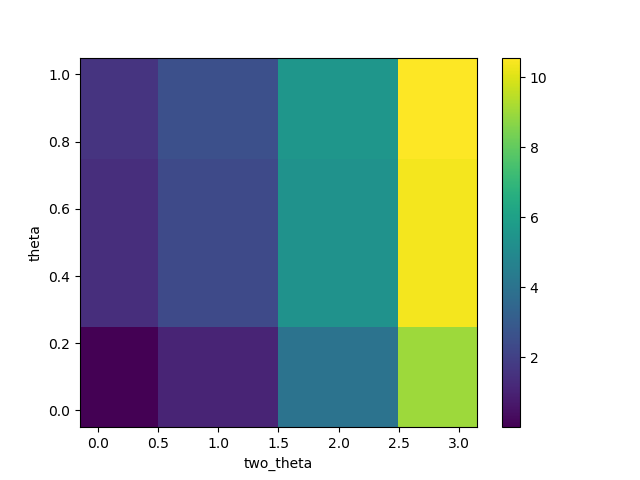
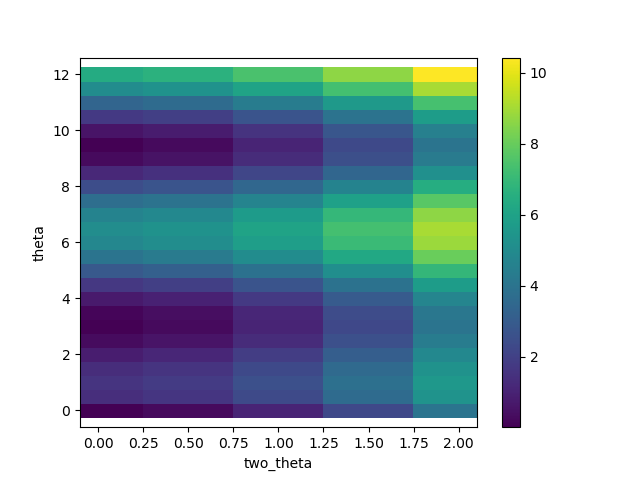
Remove sleep in test
Also add greater resolution to 2D scan

diff --git a/Scans/Instrument.py b/Scans/Instrument.py
@@ -12,7 +12,6 @@ import numpy as np
 from .Util import make_scan
 from .Defaults import Defaults
 from .Monoid import Polarisation, MonoidList
-from .Scans import estimate
 from .Motion import populate
 from .Mocks import g
 
@@ -27,8 +26,6 @@ class MockInstrument(Defaults):
 
     @staticmethod
     def detector(**kwargs):
-        from time import sleep
-        sleep(estimate(**kwargs))
         print("Taking a count at theta=%0.2f and two theta=%0.2f" %
               (g.cget("theta")["value"], g.cget("two_theta")["value"]))
         return (1+np.cos(g.cget("theta")["value"])) * \
@@ -48,11 +45,10 @@ populate()
 scan = make_scan(MockInstrument())
 
 
-def pol_measure(**kwargs):
+def pol_measure(**_):
     """
     Get a single polarisation measurement
     """
-    from time import sleep
 
     results = []
     for freq, width in zip([4, 6, 8, 4], [9, 9, 9, 3]):
@@ -64,6 +60,5 @@ def pol_measure(**kwargs):
         ups += np.sqrt(ups)*(2*np.random.rand()-1)
         down += np.sqrt(down)*(2*np.random.rand()-1)
         results.append(Polarisation(ups, down))
-    sleep(0.01*kwargs["frames"])
 
     return MonoidList(results)

diff --git a/Scans/Mocks.py b/Scans/Mocks.py
@@ -4,7 +4,6 @@ This module creates mocks to handle classes that may not be available
 on development or testing machines.
 """
 
-from time import sleep
 from mock import Mock
 import numpy as np
 
@@ -55,7 +54,6 @@ def fake_spectrum(channel, period):
     base *= 100000
     base += np.sqrt(base) * (2 * np.random.rand(1000) - 1)
     base /= x
-    sleep(0.1)
     return {"signal": base}
 
 

diff --git a/doc/source/tutorial.rst b/doc/source/tutorial.rst
@@ -286,21 +286,30 @@ Perform complex scans
   On the other hand, if the user is unsure about the proper sample
   alignment, they may want to investigate theta and two-theta separately
 
-  >>> th = scan(THETA, start=0, stop=1, stride=0.5)
-  >>> two_th = scan(TWO_THETA, start=0, stop=3, stride=1.0)
-  >>> (th * two_th).plot(frames=5, save="2d.png")
+  >>> th = scan(THETA, start=0, stop=12, stride=0.5)
+  >>> two_th = scan(TWO_THETA, start=0, stop=2, stride=0.5)
+  >>> (th * two_th).plot(frames=5, save="2d.png") # doctest: +ELLIPSIS
   Taking a count at theta=0.00 and two theta=0.00
+  Taking a count at theta=0.00 and two theta=0.50
   Taking a count at theta=0.00 and two theta=1.00
+  Taking a count at theta=0.00 and two theta=1.50
   Taking a count at theta=0.00 and two theta=2.00
-  Taking a count at theta=0.00 and two theta=3.00
   Taking a count at theta=0.50 and two theta=0.00
+  Taking a count at theta=0.50 and two theta=0.50
   Taking a count at theta=0.50 and two theta=1.00
+  Taking a count at theta=0.50 and two theta=1.50
   Taking a count at theta=0.50 and two theta=2.00
-  Taking a count at theta=0.50 and two theta=3.00
-  Taking a count at theta=1.00 and two theta=0.00
-  Taking a count at theta=1.00 and two theta=1.00
-  Taking a count at theta=1.00 and two theta=2.00
-  Taking a count at theta=1.00 and two theta=3.00
+  ...
+  Taking a count at theta=11.50 and two theta=0.00
+  Taking a count at theta=11.50 and two theta=0.50
+  Taking a count at theta=11.50 and two theta=1.00
+  Taking a count at theta=11.50 and two theta=1.50
+  Taking a count at theta=11.50 and two theta=2.00
+  Taking a count at theta=12.00 and two theta=0.00
+  Taking a count at theta=12.00 and two theta=0.50
+  Taking a count at theta=12.00 and two theta=1.00
+  Taking a count at theta=12.00 and two theta=1.50
+  Taking a count at theta=12.00 and two theta=2.00
 
   .. figure:: ../../2d.png
      :alt: 2D scan image
@@ -310,6 +319,7 @@ Perform complex scans
   performed twice and the results combined.  This can allow for
   iterative scanning to improve statistics.
 
+  >>> TWO_THETA(3.0)
   >>> th = scan(THETA, start=0, stop=1, stride=0.5)
   >>> (th + th + th).plot(frames=5)
   Taking a count at theta=0.00 and two theta=3.00
